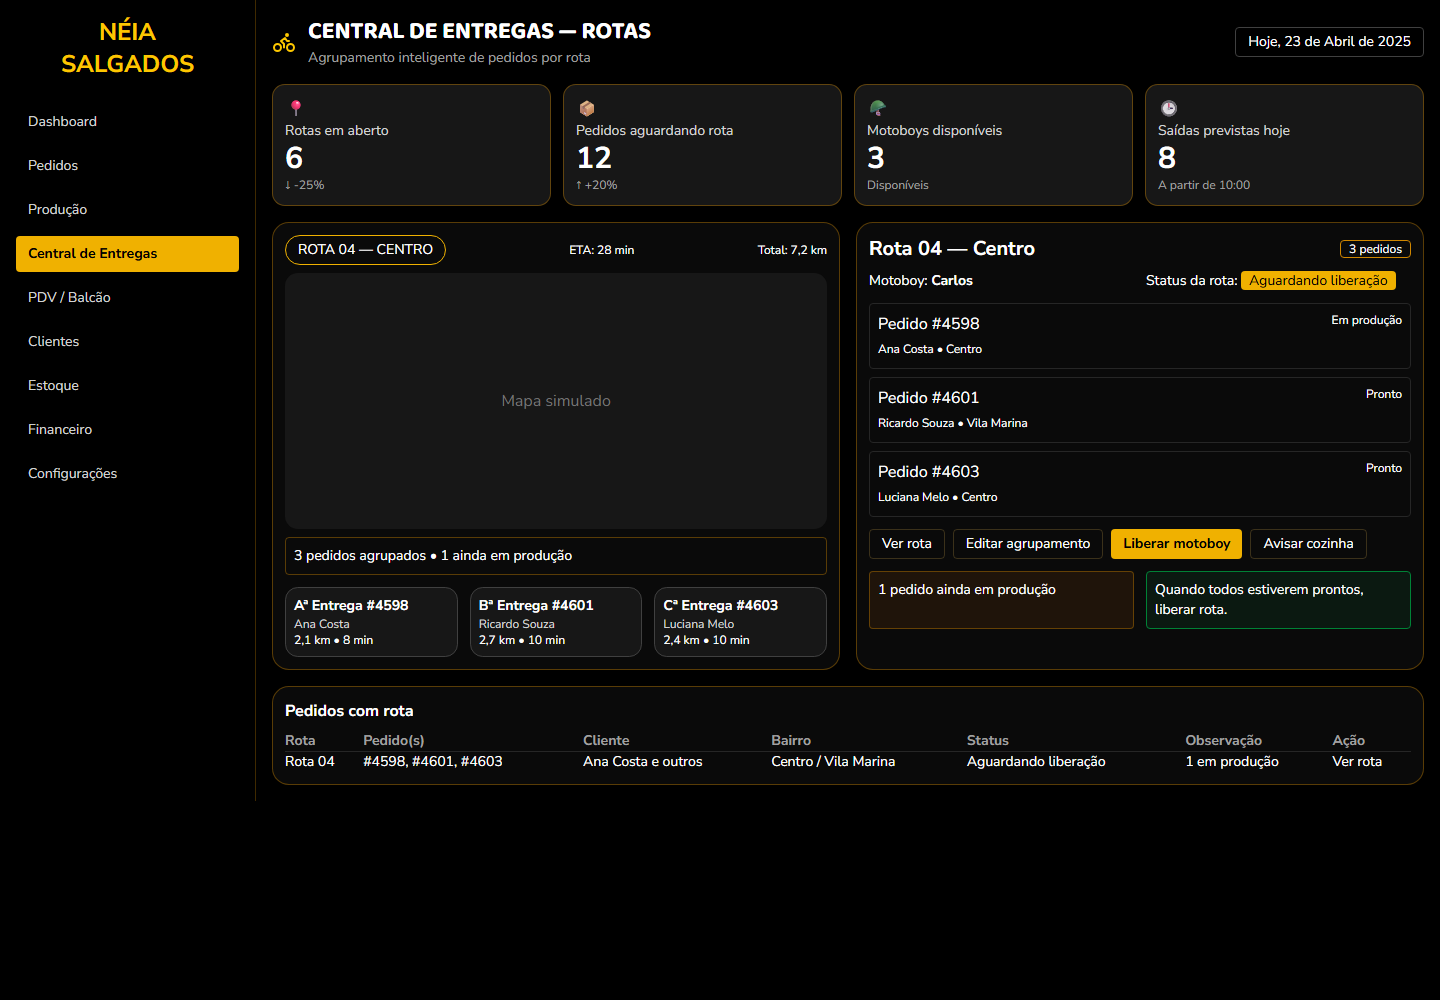
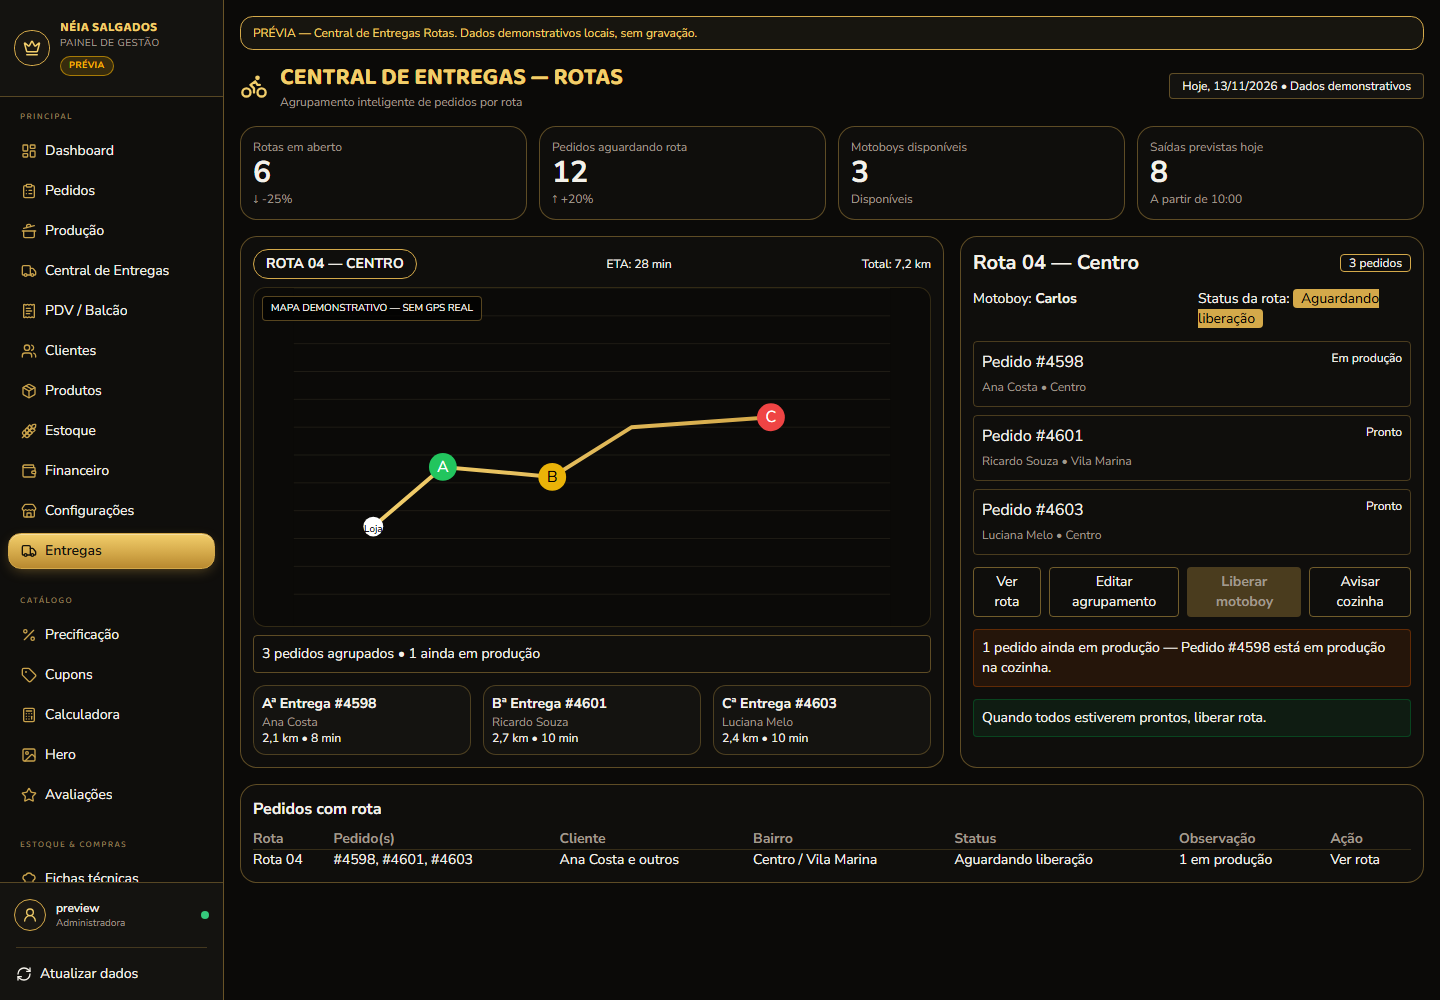
feat(entregas): acabamento profissional com AdminShell, mapa SVG demonstrativo e bloqueio de liberação

diff --git a/src/routes/preview/central-entregas-v2.tsx b/src/routes/preview/central-entregas-v2.tsx
@@ -1,99 +1,98 @@
 import { createFileRoute } from "@tanstack/react-router";
-import { Bike, ChefHat, Home, ShoppingCart, ClipboardList, BikeIcon, Users } from "lucide-react";
+import { AdminShell } from "@/components/admin/admin-shell";
+import { Bike } from "lucide-react";
+import { useState } from "react";
 
 export const Route = createFileRoute("/preview/central-entregas-v2")({
-  head: () => ({ meta: [{ title: "Preview — Central de Entregas Rotas" }] }),
+  head: () => ({ meta: [{ title: "Prévia — Central de Entregas Rotas" }] }),
   component: PreviewCentralEntregasV2,
 });
 
 export function PreviewCentralEntregasV2() {
+  const [liberado] = useState(false);
+  const hoje = new Date().toLocaleDateString("pt-BR", { timeZone: "America/Sao_Paulo" });
   return (
-    <div className="min-h-screen bg-black text-white">
-      <div className="flex">
-        {/* Sidebar */}
-        <aside className="w-64 border-r border-yellow-600/30 bg-black p-4 hidden lg:block">
-          <div className="text-center">
-            <div className="text-yellow-400 text-2xl font-bold">NÉIA<br/>SALGADOS</div>
-          </div>
-          <nav className="mt-6 space-y-2 text-sm">
-            {[
-              ["Dashboard"],
-              ["Pedidos"],
-              ["Produção"],
-              ["Central de Entregas"],
-              ["PDV / Balcão"],
-              ["Clientes"],
-              ["Estoque"],
-              ["Financeiro"],
-              ["Configurações"],
-            ].map(([label], i) => (
-              <div key={i} className={`px-3 py-2 rounded ${label==="Central de Entregas" ? "bg-yellow-500 text-black font-bold" : "text-neutral-300"}`}>{label}</div>
-            ))}
-          </nav>
-        </aside>
-
-        <main className="flex-1 p-4 space-y-4">
-          <header className="flex items-center justify-between">
+    <AdminShell aba="entregas" onAba={() => {}} onRefresh={() => {}} usuario="preview@neia.local" modoPreview>
+      <div className="min-h-screen bg-background p-3 sm:p-4">
+        <div className="mx-auto max-w-[1400px]">
+          <p className="mb-3 rounded-lg border border-[#D4A94A] bg-[#17150F] px-3 py-2 text-xs text-[#F2CE6B]">
+            PRÉVIA — Central de Entregas Rotas. Dados demonstrativos locais, sem gravação.
+          </p>
+          <header className="flex flex-col gap-3 sm:flex-row sm:items-center sm:justify-between">
             <div className="flex items-center gap-3">
-              <Bike className="text-yellow-400" />
+              <Bike className="size-7 text-[#F2CE6B]" />
               <div>
-                <h1 className="text-2xl font-bold">CENTRAL DE ENTREGAS — ROTAS</h1>
-                <p className="text-sm text-neutral-400">Agrupamento inteligente de pedidos por rota</p>
+                <h1 className="font-display text-2xl font-bold text-[#F2CE6B]">CENTRAL DE ENTREGAS — ROTAS</h1>
+                <p className="text-xs text-muted-foreground">Agrupamento inteligente de pedidos por rota</p>
               </div>
             </div>
-            <div className="text-sm border border-neutral-700 rounded px-3 py-1">Hoje, 23 de Abril de 2025</div>
+            <div className="text-xs border border-[#D4A94A]/40 rounded px-3 py-1 bg-[#141310]">Hoje, {hoje} • Dados demonstrativos</div>
           </header>
 
-          {/* Indicadores */}
-          <div className="grid grid-cols-1 md:grid-cols-4 gap-3">
+          <div className="mt-4 grid grid-cols-1 md:grid-cols-4 gap-3">
             {[
-              {icon:"📍",label:"Rotas em aberto",value:"6",info:"↓ -25%"},
-              {icon:"📦",label:"Pedidos aguardando rota",value:"12",info:"↑ +20%"},
-              {icon:"🪖",label:"Motoboys disponíveis",value:"3",info:"Disponíveis"},
-              {icon:"🕒",label:"Saídas previstas hoje",value:"8",info:"A partir de 10:00"},
+              {label:"Rotas em aberto",value:"6",info:"↓ -25%"},
+              {label:"Pedidos aguardando rota",value:"12",info:"↑ +20%"},
+              {label:"Motoboys disponíveis",value:"3",info:"Disponíveis"},
+              {label:"Saídas previstas hoje",value:"8",info:"A partir de 10:00"},
             ].map((i,k)=>(
-              <div key={k} className="border border-yellow-600/40 rounded-lg bg-neutral-900 p-3">
-                <div className="flex items-center gap-2 text-yellow-400">{i.icon}</div>
-                <div className="text-sm text-neutral-300">{i.label}</div>
+              <div key={k} className="rounded-xl border border-[#D4A94A]/40 bg-[#0F0E0C] p-3">
+                <div className="text-xs text-muted-foreground">{i.label}</div>
                 <div className="text-3xl font-bold">{i.value}</div>
-                <div className="text-xs text-neutral-400">{i.info}</div>
+                <div className="text-xs text-muted-foreground">{i.info}</div>
               </div>
             ))}
           </div>
 
-          {/* Mapa + Painel */}
-          <div className="grid grid-cols-1 xl:grid-cols-2 gap-4">
-            <div className="border border-yellow-600/40 rounded-xl bg-neutral-950 p-3">
+          <div className="mt-4 grid grid-cols-1 xl:grid-cols-5 gap-4">
+            <div className="xl:col-span-3 rounded-xl border border-[#D4A94A]/40 bg-[#0F0E0C] p-3">
               <div className="flex items-center justify-between mb-2">
-                <div className="border border-yellow-500 rounded-full px-3 py-1 text-sm">ROTA 04 — CENTRO</div>
+                <div className="border border-[#D4A94A] rounded-full px-3 py-1 text-sm font-bold">ROTA 04 — CENTRO</div>
                 <div className="text-xs">ETA: 28 min</div>
                 <div className="text-xs">Total: 7,2 km</div>
               </div>
-              <div className="h-64 bg-neutral-900 rounded-lg flex items-center justify-center text-neutral-500">Mapa simulado</div>
-              <div className="mt-2 border border-yellow-600/40 rounded p-2 text-sm">3 pedidos agrupados • 1 ainda em produção</div>
+              <div className="relative h-[340px] rounded-lg bg-[#0b0a08] border border-[#D4A94A]/20 overflow-hidden">
+                <svg viewBox="0 0 600 340" className="absolute inset-0 w-full h-full">
+                  <defs>
+                    <linearGradient id="g" x1="0" x2="1">
+                      <stop offset="0%" stopColor="#f2ce6b"/>
+                      <stop offset="100%" stopColor="#d4a94a"/>
+                    </linearGradient>
+                  </defs>
+                  <rect width="600" height="340" fill="#0b0a08"/>
+                  {Array.from({length:12}).map((_,i)=><line key={i} x1="0" y1={i*28} x2="600" y2={i*28} stroke="#1f1c15" strokeWidth="1"/>)}
+                  <polyline points="80,240 150,180 260,190 340,140 480,130" fill="none" stroke="url(#g)" strokeWidth="4" strokeLinecap="round"/>
+                  <circle cx="80" cy="240" r="10" fill="#fff"/><text x="80" y="245" textAnchor="middle" fill="#000" fontSize="10">Loja</text>
+                  <circle cx="150" cy="180" r="14" fill="#22c55e"/><text x="150" y="185" textAnchor="middle" fill="#fff">A</text>
+                  <circle cx="260" cy="190" r="14" fill="#eab308"/><text x="260" y="195" textAnchor="middle" fill="#000">B</text>
+                  <circle cx="480" cy="130" r="14" fill="#ef4444"/><text x="480" y="135" textAnchor="middle" fill="#fff">C</text>
+                </svg>
+                <div className="absolute top-2 left-2 text-[10px] bg-black/70 px-2 py-1 rounded border border-[#D4A94A]/40">MAPA DEMONSTRATIVO — SEM GPS REAL</div>
+              </div>
+              <div className="mt-2 border border-[#D4A94A]/40 rounded p-2 text-sm">3 pedidos agrupados • 1 ainda em produção</div>
               <div className="grid grid-cols-3 gap-3 mt-3">
                 {[
                   {letra:"A",ped:"#4598",cli:"Ana Costa",km:"2,1 km",t:"8 min"},
                   {letra:"B",ped:"#4601",cli:"Ricardo Souza",km:"2,7 km",t:"10 min"},
                   {letra:"C",ped:"#4603",cli:"Luciana Melo",km:"2,4 km",t:"10 min"},
                 ].map((p,i)=>(
-                  <div key={i} className="border border-neutral-700 rounded-lg p-2 bg-neutral-900">
+                  <div key={i} className="border border-[#D4A94A]/30 rounded-lg p-2 bg-[#141310]">
                     <div className="text-sm font-bold">{p.letra}ª Entrega {p.ped}</div>
-                    <div className="text-xs text-neutral-300">{p.cli}</div>
+                    <div className="text-xs text-muted-foreground">{p.cli}</div>
                     <div className="text-xs">{p.km} • {p.t}</div>
                   </div>
                 ))}
               </div>
             </div>
 
-            <div className="border border-yellow-600/40 rounded-xl bg-neutral-950 p-3">
-              <div className="flex items-center justify-between mb-2">
+            <div className="xl:col-span-2 rounded-xl border border-[#D4A94A]/40 bg-[#0F0E0C] p-3 flex flex-col">
+              <div className="flex items-center justify-between">
                 <div className="text-xl font-bold">Rota 04 — Centro</div>
-                <div className="text-xs border border-yellow-600 rounded px-2">3 pedidos</div>
+                <div className="text-xs border border-[#D4A94A] rounded px-2">3 pedidos</div>
               </div>
-              <div className="grid grid-cols-2 gap-3 text-sm">
+              <div className="mt-3 grid grid-cols-2 gap-3 text-sm">
                 <div>Motoboy: <b>Carlos</b></div>
-                <div>Status da rota: <span className="bg-yellow-500 text-black rounded px-2">Aguardando liberação</span></div>
+                <div>Status da rota: <span className="bg-[#D4A94A] text-black rounded px-2">Aguardando liberação</span></div>
               </div>
               <div className="mt-3 space-y-2">
                 {[
@@ -101,43 +100,44 @@ export function PreviewCentralEntregasV2() {
                   {ped:"#4601",cli:"Ricardo Souza",bairro:"Vila Marina",status:"Pronto"},
                   {ped:"#4603",cli:"Luciana Melo",bairro:"Centro",status:"Pronto"},
                 ].map((r,i)=>(
-                  <div key={i} className="border border-neutral-800 rounded p-2 flex justify-between">
-                    <div>Pedido {r.ped}<br/><span className="text-xs">{r.cli} • {r.bairro}</span></div>
+                  <div key={i} className="border border-[#D4A94A]/30 rounded p-2 flex justify-between">
+                    <div>Pedido {r.ped}<br/><span className="text-xs text-muted-foreground">{r.cli} • {r.bairro}</span></div>
                     <div className="text-xs">{r.status}</div>
                   </div>
                 ))}
               </div>
               <div className="flex gap-2 mt-3">
-                <button className="border rounded px-3 py-1 text-sm">Ver rota</button>
-                <button className="border rounded px-3 py-1 text-sm">Editar agrupamento</button>
-                <button className="bg-yellow-500 text-black rounded px-3 py-1 text-sm font-bold">Liberar motoboy</button>
-                <button className="border rounded px-3 py-1 text-sm">Avisar cozinha</button>
+                <button className="border border-[#D4A94A]/50 rounded px-3 py-1 text-sm">Ver rota</button>
+                <button className="border border-[#D4A94A]/50 rounded px-3 py-1 text-sm">Editar agrupamento</button>
+                <button disabled={!liberado} className={`rounded px-3 py-1 text-sm font-bold ${liberado ? "bg-[#D4A94A] text-black" : "bg-[#D4A94A]/30 text-muted-foreground cursor-not-allowed"}`}>Liberar motoboy</button>
+                <button className="border border-[#D4A94A]/50 rounded px-3 py-1 text-sm">Avisar cozinha</button>
               </div>
-              <div className="grid grid-cols-2 gap-3 mt-3">
-                <div className="border border-yellow-600/40 rounded p-2 bg-yellow-900/20 text-sm">1 pedido ainda em produção</div>
-                <div className="border border-green-700 rounded p-2 bg-green-900/20 text-sm">Quando todos estiverem prontos, liberar rota.</div>
+              <div className="grid grid-cols-1 gap-3 mt-3">
+                <div className="border border-amber-700/40 rounded p-2 bg-amber-900/20 text-sm">1 pedido ainda em produção — Pedido #4598 está em produção na cozinha.</div>
+                <div className="border border-green-700/40 rounded p-2 bg-green-900/20 text-sm">Quando todos estiverem prontos, liberar rota.</div>
               </div>
             </div>
           </div>
 
-          {/* Tabela */}
-          <div className="border border-yellow-600/40 rounded-xl bg-neutral-950 p-3">
+          <div className="mt-4 rounded-xl border border-[#D4A94A]/40 bg-[#0F0E0C] p-3">
             <div className="font-bold mb-2">Pedidos com rota</div>
-            <table className="w-full text-sm">
-              <thead className="text-left text-neutral-400">
-                <tr>
-                  <th>Rota</th><th>Pedido(s)</th><th>Cliente</th><th>Bairro</th><th>Status</th><th>Observação</th><th>Ação</th>
-                </tr>
-              </thead>
-              <tbody>
-                <tr className="border-t border-neutral-800">
-                  <td>Rota 04</td><td>#4598, #4601, #4603</td><td>Ana Costa e outros</td><td>Centro / Vila Marina</td><td>Aguardando liberação</td><td>1 em produção</td><td>Ver rota</td>
-                </tr>
-              </tbody>
-            </table>
+            <div className="overflow-x-auto">
+              <table className="w-full text-sm">
+                <thead className="text-left text-muted-foreground">
+                  <tr>
+                    <th>Rota</th><th>Pedido(s)</th><th>Cliente</th><th>Bairro</th><th>Status</th><th>Observação</th><th>Ação</th>
+                  </tr>
+                </thead>
+                <tbody>
+                  <tr className="border-t border-[#D4A94A]/20">
+                    <td>Rota 04</td><td>#4598, #4601, #4603</td><td>Ana Costa e outros</td><td>Centro / Vila Marina</td><td>Aguardando liberação</td><td>1 em produção</td><td>Ver rota</td>
+                  </tr>
+                </tbody>
+              </table>
+            </div>
           </div>
-        </main>
+        </div>
       </div>
-    </div>
+    </AdminShell>
   );
 }
